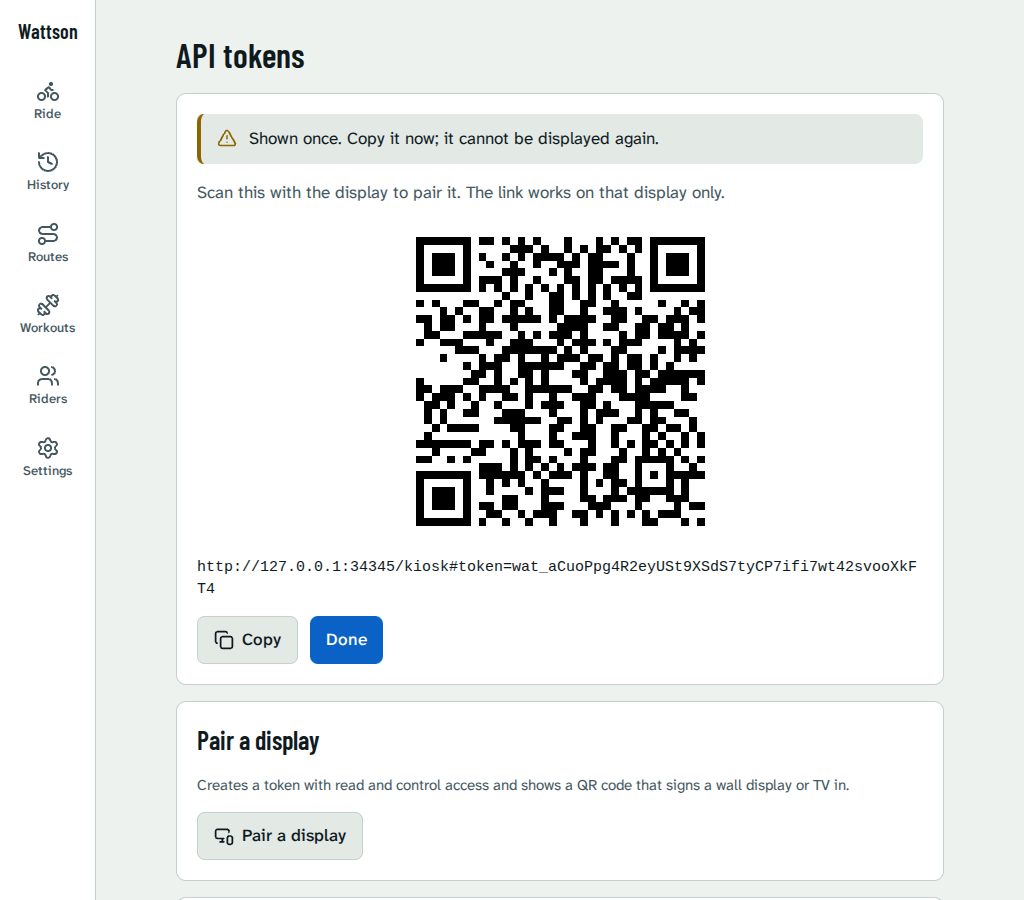
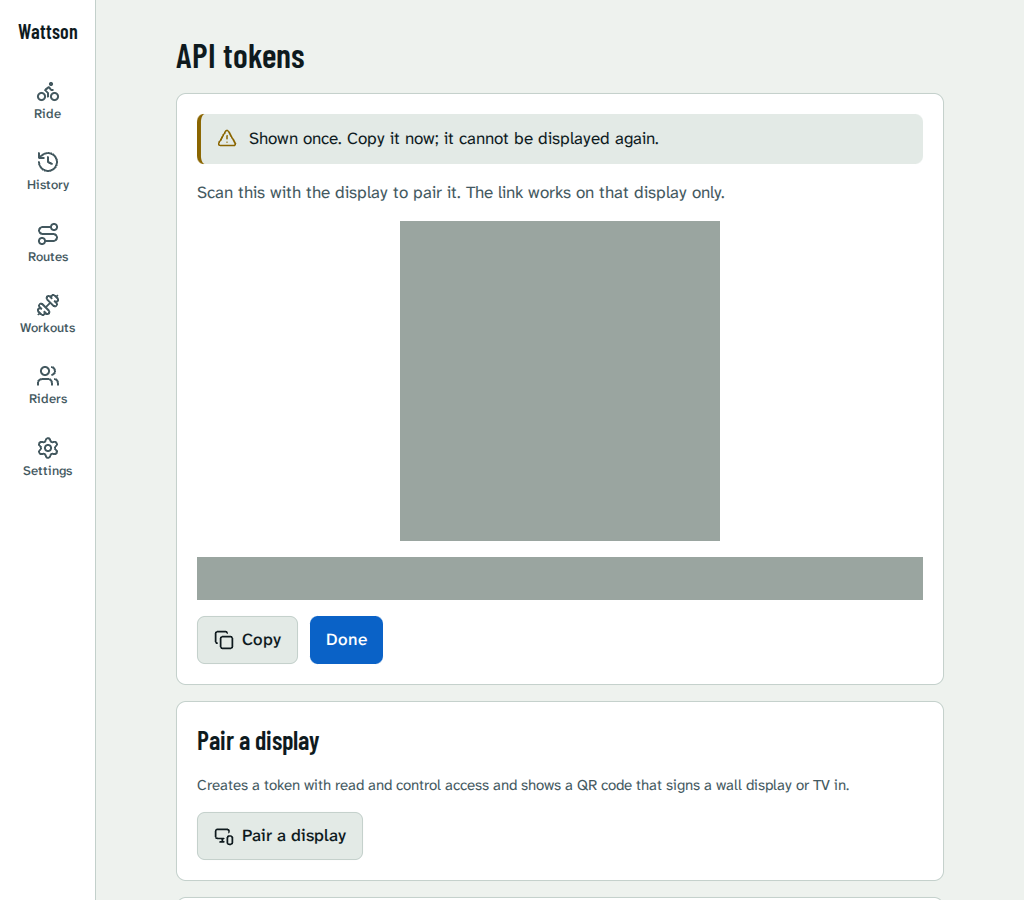
fix: TV rail layout, steadier Lighthouse budgets, stricter size and gzip checks
TV route rides use the tablet rail (tall view, 2-column metrics rail, View in the
top bar). Lighthouse: 5 runs, one retry, benchmark-scaled LCP budget, final URL
check. check-size fails on a missing lazy chunk. gzip: once-per-file compression,
no-cache on /index.html, Range test. kiosk-pair screenshot masks the token.

Changed region(s): [[0.1875, 0.2178, 0.9062, 0.6844]]

diff --git a/web/src/features/ride/RouteView.tsx b/web/src/features/ride/RouteView.tsx
@@ -1,4 +1,5 @@
-import { lazy, Suspense, useEffect, useRef, useState } from 'react';
+import { lazy, Suspense, useEffect, useLayoutEffect, useRef, useState } from 'react';
+import { createPortal } from 'react-dom';
 import { useQuery } from '@tanstack/react-query';
 import { Banner } from '@/components/Banner';
 import { api, unwrap } from '@/lib/api';
@@ -18,6 +19,7 @@ import type { MapApi } from '@/features/map/MapView';
 import { ProfileCanvas } from '@/features/routes/ProfileCanvas';
 import { photosKey, profileKey, routeKey } from '@/features/routes/queries';
 import type { components } from '@/lib/openapi';
+import { VIEW_SLOT_ID } from './BikeBar';
 import { ViewMenu } from './ViewMenu';
 
 type PhotosOut = components['schemas']['RoutePhotosOut'];
@@ -121,6 +123,9 @@ export function RouteView({ routeId, ticks }: { routeId: number; ticks: TickStor
   const tv = useMedia('(min-width: 1600px)');
   const rail = useMedia('(min-width: 900px) and (orientation: landscape)');
   const wide = useMedia('(min-width: 768px)'); // Tailwind md: the map panel is always shown
+  // On a TV the View menu sits in the top bar (BikeBar's slot), leaving the whole left column to the view.
+  const [slot, setSlot] = useState<HTMLElement | null>(null);
+  useLayoutEffect(() => setSlot(document.getElementById(VIEW_SLOT_ID)), []);
   const photoData = photoQuery.data;
   const photoList = photoData?.status === 'ready' ? photoData.photos : [];
   const caps: Caps = {
@@ -191,6 +196,10 @@ export function RouteView({ routeId, ticks }: { routeId: number; ticks: TickStor
     };
   }, [map, prof, ticks]);
 
+  const viewMenu = (
+    <ViewMenu value={view} caps={caps} exaggeration={exaggeration} onChange={choose} onExaggeration={setExag} />
+  );
+
   if (route.isPending && profile.isPending) return null;
   if (profile.isError) {
     return <Banner tone="warn">This route is no longer available. Live metrics continue without the map.</Banner>;
@@ -199,7 +208,8 @@ export function RouteView({ routeId, ticks }: { routeId: number; ticks: TickStor
   return (
     <section aria-label="Route" className="flex flex-col gap-3">
       {note && <Banner tone="info">{note}</Banner>}
-      {hasMap && (
+      {hasMap && tv && slot && createPortal(viewMenu, slot)}
+      {hasMap && !(tv && slot) && (
         <div className="flex flex-wrap items-start gap-3">
           <button
             type="button"
@@ -210,7 +220,7 @@ export function RouteView({ routeId, ticks }: { routeId: number; ticks: TickStor
           >
             {showMap ? 'Hide map' : 'Map'}
           </button>
-          <ViewMenu value={view} caps={caps} exaggeration={exaggeration} onChange={choose} onExaggeration={setExag} />
+          {viewMenu}
         </div>
       )}
       <div className="grid gap-3">
@@ -239,7 +249,7 @@ export function RouteView({ routeId, ticks }: { routeId: number; ticks: TickStor
             </Suspense>
           </div>
         )}
-        {prof && <ProfileCanvas profile={prof} cursor={ticks} height={tv ? 140 : rail ? 180 : hasMap ? 220 : 160} />}
+        {prof && <ProfileCanvas profile={prof} cursor={ticks} height={tv ? 96 : rail ? 180 : hasMap ? 220 : 160} />}
       </div>
     </section>
   );

diff --git a/web/src/index.css b/web/src/index.css
@@ -257,7 +257,7 @@ select {
  * Ride screen layouts. Plain CSS so the same markup serves three displays:
  *   phone portrait (< 600 w)      one column, 2 x 2 primary metrics
  *   tablet landscape (>= 900 w)   view and profile left, metric + control rail right
- *   TV (>= 1600 w)                view, profile strip, then a six-value HUD
+ *   TV (>= 1600 w)                route/workout: the tablet rail, wider; free ride: a seven-value HUD
  * Phone landscape (height < 500) uses the tablet layout with a 40 % rail.
  */
 .ride-screen {
@@ -431,18 +431,19 @@ html.ride-dark .ride-view .ride-viewbox {
   }
 }
 
-/* TV at 3 m: HUD under the view, values scale with the screen, 5 % overscan inset. */
+/* TV at 3 m: values scale with the screen, 5 % overscan inset; a free ride (no view) is a HUD across the screen. */
 @media (min-width: 1600px) {
   html.ride-dark .app-shell {
     padding-inline: max(5vw, env(safe-area-inset-left), env(safe-area-inset-right));
     padding-block: max(5vh, env(safe-area-inset-top), env(safe-area-inset-bottom));
   }
   .ride-screen {
-    --view-h: max(12rem, calc(90dvh - 46rem));
+    gap: 1rem;
+  }
+  .ride-flat {
     grid-template-columns: minmax(0, 1fr);
     grid-template-rows: none;
-    grid-template-areas: 'top' 'view' 'metrics' 'controls';
-    gap: 1rem;
+    grid-template-areas: 'top' 'metrics' 'controls';
   }
   .metric-grid {
     grid-template-columns: repeat(6, minmax(0, 1fr));
@@ -516,5 +517,37 @@ html.ride-dark .ride-view .ride-viewbox {
   }
   .ride-flat .m-wide {
     grid-column: 1 / -1;
+  }
+}
+
+/*
+ * TV, route or workout ride: the tablet rail at TV scale. The view fills the left
+ * (about 700 px of a 1080 p screen, under the 5 % overscan), a 6 rem profile sits
+ * under it, and the numbers and controls stack in a 30 rem rail on the right.
+ */
+@media (min-width: 1600px) {
+  .ride-screen:not(.ride-flat) {
+    --rail: 30rem;
+    --view-h: calc(90dvh - 17rem);
+    --val: 4rem;
+    grid-template-columns: minmax(0, 1fr) var(--rail);
+    grid-template-rows: auto 1fr auto;
+    grid-template-areas: 'top top' 'view metrics' 'view controls';
+    padding-bottom: 0;
+  }
+  .ride-screen:not(.ride-flat) .ride-metrics,
+  .ride-screen:not(.ride-flat) .ride-controls {
+    align-self: start;
+  }
+  .ride-screen:not(.ride-flat) .metric-grid {
+    grid-template-columns: repeat(2, minmax(0, 1fr));
+    gap: 0.75rem;
+  }
+  .ride-screen:not(.ride-flat) .m-minus,
+  .ride-screen:not(.ride-flat) .m-plus {
+    grid-column: span 1;
+  }
+  .ride-screen:not(.ride-flat) .metric-label {
+    font-size: 1.25rem;
   }
 }

diff --git a/web/e2e/screenshots.spec.ts b/web/e2e/screenshots.spec.ts
@@ -1,6 +1,6 @@
 import { mkdirSync } from 'node:fs';
 import { resolve } from 'node:path';
-import type { Page } from '@playwright/test';
+import type { Locator, Page } from '@playwright/test';
 import { apiAs, expect, importRamp, setupAdmin, test as base, useFakeMapillary, type Cookie } from './fixtures';
 
 // The user guide's pictures (docs/images). Not part of the suite: `npm run screenshots` after `make build`.
@@ -76,8 +76,8 @@ async function settle(page: Page) {
   await page.waitForTimeout(3_000);
 }
 
-async function shoot(page: Page, name: string) {
-  await page.screenshot({ path: resolve(OUT, `${name}.png`), animations: 'disabled' });
+async function shoot(page: Page, name: string, mask: Locator[] = []) {
+  await page.screenshot({ path: resolve(OUT, `${name}.png`), animations: 'disabled', mask, maskColor: '#9aa5a0' });
 }
 
 async function setView(page: Page, view: '2d' | '3d' | 'photo') {
@@ -159,5 +159,6 @@ test('kiosk-pair: pairing a TV with a QR code', async ({ page, routeId }) => {
   await page.getByRole('button', { name: 'Pair a display' }).click();
   await expect(page.getByAltText('Pairing QR code')).toBeVisible();
   await settle(page);
-  await shoot(page, 'kiosk-pair');
+  // The pairing token is a credential (this server is thrown away, but the picture is published): hide it and its QR code.
+  await shoot(page, 'kiosk-pair', [page.getByAltText('Pairing QR code'), page.getByText(/kiosk#token=/)]);
 });

diff --git a/web/e2e/visuals.spec.ts b/web/e2e/visuals.spec.ts
@@ -161,3 +161,15 @@ test('street photos crossfade between two blob-loaded layers in a real browser',
   );
   expect(seen).toEqual({ mid: true, blobs: true, settled: true });
 });
+
+test('on a TV the view fills the left of a rail layout and View is in the top bar', async ({ page, routeId }, info) => {
+  test.skip(info.project.name !== 'tv', 'the TV layout');
+  await ride(page, routeId);
+  const map = (await page.getByTestId('route-map').boundingBox())!;
+  const view = (await page.getByRole('button', { name: 'View' }).boundingBox())!;
+  const rail = (await page.getByRole('button', { name: 'Pause' }).boundingBox())!;
+  expect(map.height, 'the view is tall, not a strip').toBeGreaterThan(650);
+  expect(view.y + view.height, 'View sits above the view').toBeLessThanOrEqual(map.y);
+  expect(rail.x, 'controls are in a right-hand rail').toBeGreaterThan(map.x + map.width);
+  expect(rail.y + rail.height, 'inside the screen with its overscan margin').toBeLessThanOrEqual(1080 * 0.95 + 1);
+});

diff --git a/web/src/features/ride/ViewMenu.tsx b/web/src/features/ride/ViewMenu.tsx
@@ -54,7 +54,7 @@ export function ViewMenu(p: {
   };
 
   return (
-    <div className="flex flex-col gap-2">
+    <div className="relative flex flex-col gap-2">
       <button
         ref={btn}
         type="button"
@@ -68,7 +68,10 @@ export function ViewMenu(p: {
         View
       </button>
       {open && (
-        <div id={id} className="flex flex-col gap-1 rounded-panel border border-line bg-panel p-2">
+        <div
+          id={id}
+          className="flex flex-col gap-1 rounded-panel border border-line bg-panel p-2 min-[1600px]:absolute min-[1600px]:right-0 min-[1600px]:top-full min-[1600px]:z-30 min-[1600px]:mt-2 min-[1600px]:w-96"
+        >
           <div ref={group} role="radiogroup" aria-label="Ride view" onKeyDown={onArrow} className="flex flex-col gap-1">
             {OPTIONS.map(({ v, label }) => {
               const why = unavailableReason(v, p.caps);

diff --git a/web/src/features/ride/BikeBar.tsx b/web/src/features/ride/BikeBar.tsx
@@ -19,6 +19,9 @@ const stateStyle: Record<RideState, string> = {
   finished: 'border-line text-chalk',
 };
 
+/** Where RouteView puts its View button on a TV. */
+export const VIEW_SLOT_ID = 'ride-view-slot';
+
 /** How long the link may be down before the page says so; a page load opens it within milliseconds. */
 const LINK_GRACE_MS = 600;
 
@@ -112,6 +115,8 @@ export function BikeBar({
           </div>
         </div>
         <div className="flex w-full items-end gap-3 md:ml-auto md:w-auto">
+          {/* On a TV the route view's View menu is shown here (see RouteView). */}
+          <div id={VIEW_SLOT_ID} className="contents" />
           <div className="min-w-0 flex-1 md:w-48 md:flex-none">
             <Select
               label="Rider"

diff --git a/internal/web/embed.go b/internal/web/embed.go
@@ -48,7 +48,7 @@ func handlerFor(fsys fs.FS) http.Handler {
 
 	return http.HandlerFunc(func(w http.ResponseWriter, r *http.Request) {
 		upath := strings.TrimPrefix(r.URL.Path, "/")
-		if upath == "" {
+		if upath == "" || upath == "index.html" {
 			serveIndex(w, index)
 			return
 		}
@@ -83,7 +83,7 @@ func handlerFor(fsys fs.FS) http.Handler {
 
 // gzExt lists the text formats worth compressing (woff2, images and the like
 // are already compressed).
-var gzExt = map[string]bool{".js": true, ".css": true, ".html": true, ".svg": true, ".json": true, ".webmanifest": true}
+var gzExt = map[string]bool{".js": true, ".css": true, ".html": true, ".svg": true, ".json": true}
 
 // gzCache serves gzip-compressed copies of the embedded text files, built once
 // on first request. The binary is often the only server in front of the
@@ -91,24 +91,31 @@ var gzExt = map[string]bool{".js": true, ".css": true, ".html": true, ".svg": tr
 // compressed form.
 type gzCache struct {
 	fsys fs.FS
-	m    sync.Map // path -> []byte (nil: not compressible)
+	m    sync.Map // path -> *gzEntry
+}
+
+// gzEntry is compressed once even when the first requests arrive together.
+type gzEntry struct {
+	once sync.Once
+	body []byte // nil: not worth compressing
 }
 
 func (c *gzCache) bytes(upath string) []byte {
-	if v, ok := c.m.Load(upath); ok {
-		return v.([]byte)
-	}
-	var out []byte
-	if raw, err := fs.ReadFile(c.fsys, upath); err == nil {
+	v, _ := c.m.LoadOrStore(upath, &gzEntry{})
+	e := v.(*gzEntry)
+	e.once.Do(func() {
+		raw, err := fs.ReadFile(c.fsys, upath)
+		if err != nil {
+			return
+		}
 		var buf bytes.Buffer
 		zw, _ := gzip.NewWriterLevel(&buf, gzip.BestCompression)
 		_, _ = zw.Write(raw)
 		if zw.Close() == nil && buf.Len() < len(raw) {
-			out = buf.Bytes()
+			e.body = buf.Bytes()
 		}
-	}
-	c.m.Store(upath, out)
-	return out
+	})
+	return e.body
 }
 
 // serve answers GET and HEAD for upath with the compressed copy and reports

diff --git a/internal/web/embed_test.go b/internal/web/embed_test.go
@@ -135,6 +135,19 @@ func TestGzipAssets(t *testing.T) {
 	if rec := do("/sw.js", "gzip"); rec.Header().Get("Content-Encoding") != "gzip" || rec.Header().Get("Cache-Control") != "no-cache" {
 		t.Errorf("sw.js: %v", rec.Header())
 	}
+	// A Range request is answered from the uncompressed file (ranges of a gzip stream are meaningless).
+	rreq := httptest.NewRequest(http.MethodGet, "/assets/a.js", nil)
+	rreq.Header.Set("Accept-Encoding", "gzip")
+	rreq.Header.Set("Range", "bytes=0-9")
+	rrec := httptest.NewRecorder()
+	h.ServeHTTP(rrec, rreq)
+	if rrec.Code != http.StatusPartialContent || rrec.Header().Get("Content-Encoding") != "" || rrec.Body.String() != js[:10] {
+		t.Errorf("Range: %d %v %q", rrec.Code, rrec.Header(), rrec.Body.String())
+	}
+	// An explicit /index.html is the SPA entry: never cached, never a stale copy.
+	if rec := do("/index.html", "gzip"); rec.Code != http.StatusOK || rec.Header().Get("Cache-Control") != "no-cache" || rec.Body.String() != "<html>app</html>" {
+		t.Errorf("/index.html: %d %v %q", rec.Code, rec.Header(), rec.Body.String())
+	}
 	head := httptest.NewRecorder()
 	req := httptest.NewRequest(http.MethodHead, "/assets/a.js", nil)
 	req.Header.Set("Accept-Encoding", "gzip")
